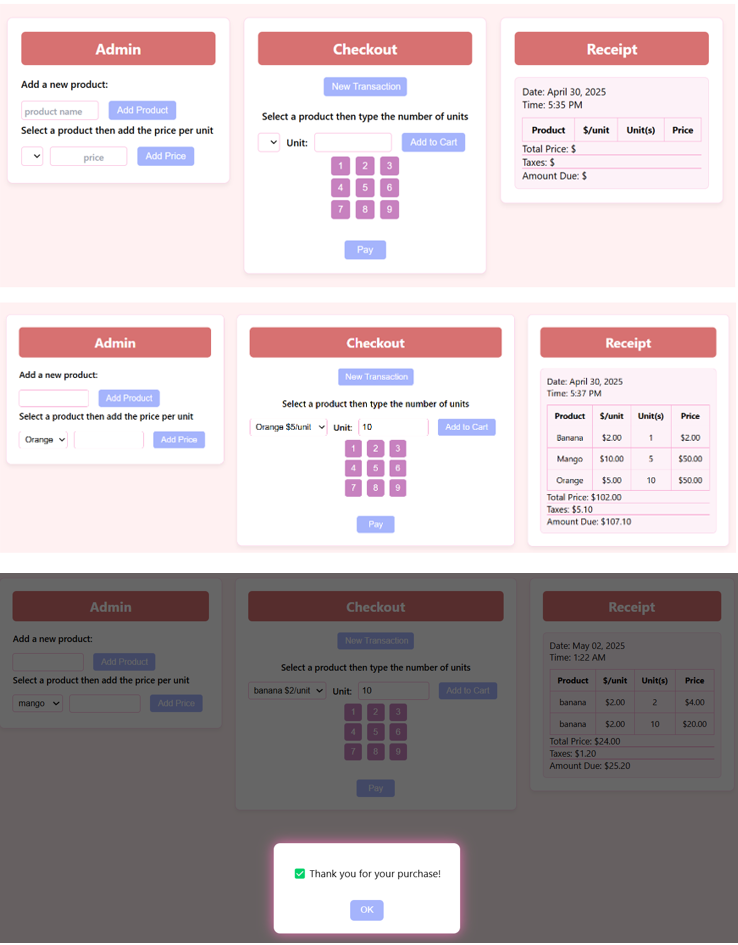
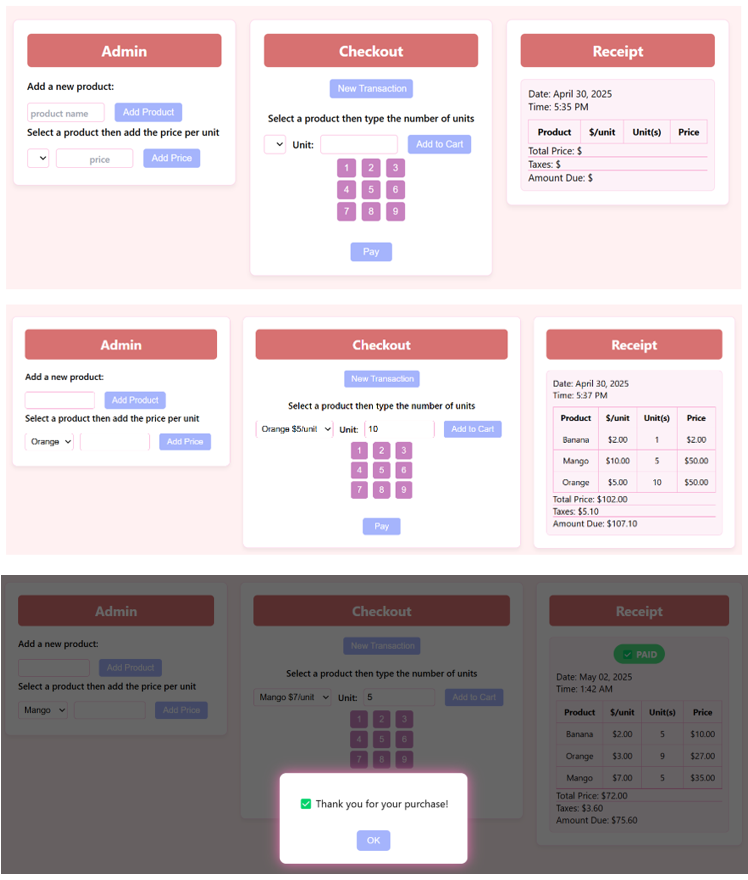
PAID function

diff --git a/index.html b/index.html
@@ -23,7 +23,7 @@
             <div class="addPrice">
                 <select id="productList"></select>
                 <label id="prPlaceHolder" for="productPrice">price</label>
-                <input type="text" id="productPrice"><!--type* text? or number?-->
+                <input type="text" id="productPrice">
                 <button class="addBtn" onclick="addPrice()">Add Price</button><br/><br/>
             </div>
         </div>
@@ -33,7 +33,6 @@
             <h2>Checkout</h2>
             <button class="btnNewTx" onclick="newTransaction()">New Transaction</button><br/><br/>
             <label for="selectProduct">Select a product then type the number of units</label><br/>
-            
             <div class="addCart">
                 <select id="selectProduct"></select>
                 <label for="unitAmount">Unit:</label>
@@ -52,7 +51,6 @@
                 <button onclick="addUnit(8)">8</button>
                 <button onclick="addUnit(9)">9</button><br/><br/>
             </div>
-            
             <button class="btnPay" onclick="pay()">Pay</button>
         </div>
     </div>
@@ -60,6 +58,9 @@
         <div id="receipt">
             <h2>Receipt</h2>
             <div class="receiptTable">
+                <!-- PAID badge -->
+                <div id="paidBadge" class="paid hidden">✅ PAID</div>
+
                 <p>Date: <span id="receiptDate"></span></p>
                 <p>Time: <span id="receiptTime"></span></p>
                 <table>
@@ -74,7 +75,6 @@
                     <tbody id="tbody">
                     </tbody>
                 </table>
-                
                 <!-- Display product details and total amount here -->
                 <p>Total Price: $<span id="totalPrice"></span></p>
                 <p>Taxes: $<span id="taxes"></span></p>

diff --git a/script.js b/script.js
@@ -74,6 +74,7 @@ function newTransaction() {
     document.getElementById("amountDue").textContent = "";
     document.getElementById("receiptDate").textContent = curDate();
     document.getElementById("receiptTime").textContent = curTime();
+    document.getElementById("paidBadge").classList.add("hidden");
 }
 
 // [Add to Cart] 
@@ -120,12 +121,12 @@ function updateTotal() {
 // [Pay] 
 function pay() {
     document.getElementById("payModal").classList.remove("hidden");
+    document.getElementById("paidBadge").classList.remove("hidden"); 
 }
 
 // [Modal close]
 function closePayModal() {
     document.getElementById("payModal").classList.add("hidden");
-    newTransaction();
 }
 
 function curTime() {

diff --git a/style.css b/style.css
@@ -182,4 +182,14 @@ body {
   .hidden {
     display: none;
   }
-  
+
+  .paid {
+    background-color: #4ade80;
+    color: white;
+    font-weight: bold;
+    padding: 6px 12px;
+    border-radius: 20px;
+    width: fit-content;
+    margin: 0 auto 10px;
+    font-size: 14px;
+  }
